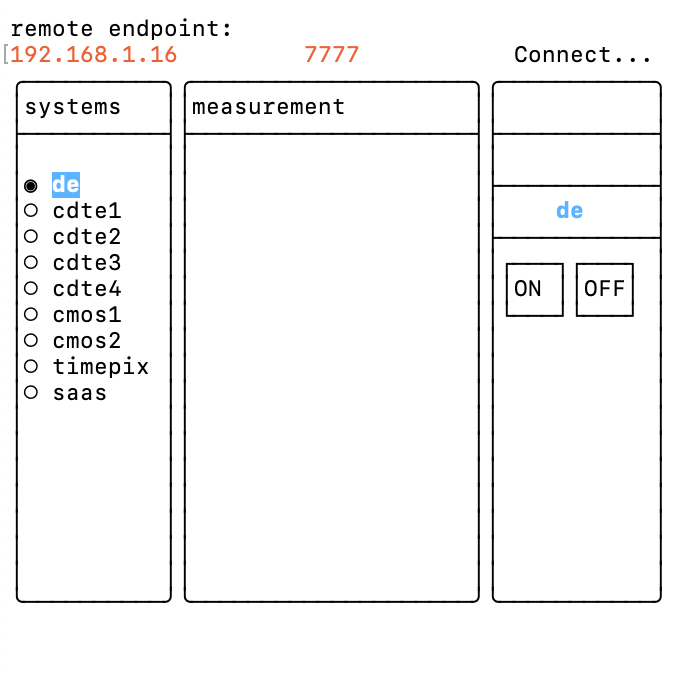
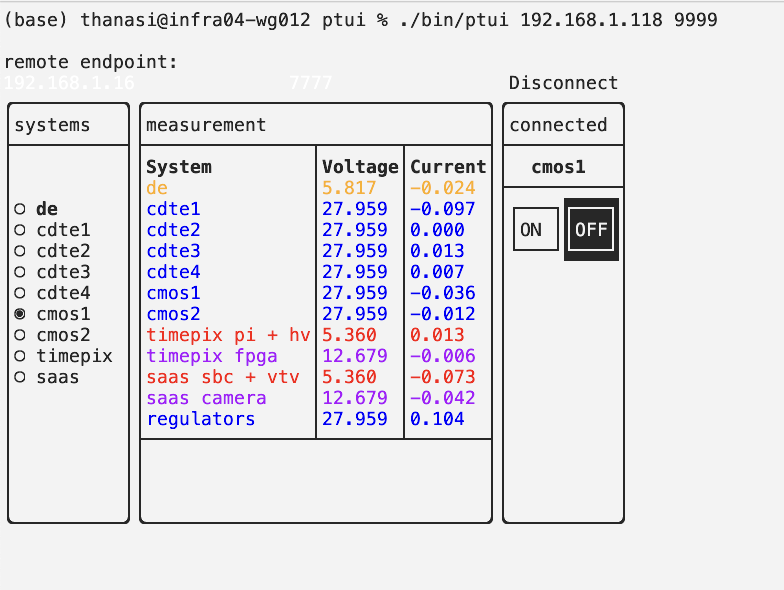
adding tests

Changed region(s): [[0.0, 0.0, 1.0, 0.9153]]

diff --git a/general-tools-cpp/hk/power/ptui/test/test.cpp b/general-tools-cpp/hk/power/ptui/test/test.cpp
@@ -1,9 +1,46 @@
-#include <boost/asio.hpp>
 #include "listen.h"
+#include <thread>
+#include    <unistd.h>
+#include <chrono>
+#include <iostream>
 
+int run_server() {
+    return system("./bin/debug-server 127.0.0.1 7777 &");
+} 
+
+int run_client() {
+    return system("./bin/debug-client 127.0.0.1 7776 127.0.0.1 7777 &");
+}
+
+
+/**
+ * @brief A simple wrapper to test HKADCNode communication.
+ * 
+ * Starts a server to send fake Housekeeping messages, and a client that asks for them and writes responses to log/.
+ */
 int main() {
+    int id = fork();
+    if (id < 0) {
+        exit(EXIT_FAILURE);
+    } else if (id == 0) {
+        int pid_s = run_server();
+        std::cout << "started server: " << id << "\n";
+        std::this_thread::sleep_for(std::chrono::seconds(5));
 
+        std::string prefix = "kill ";
+        system((prefix + std::to_string(id)).c_str());
+        
+        exit(EXIT_SUCCESS);
     
+    } else {
+        std::this_thread::sleep_for(std::chrono::seconds(1));
 
-    return 0;
+        // auto t2 = std::async(std::launch::async, run_client);
+        int pid_c = run_client();
+        std::cout << "started client: " << id << "\n";
+        std::this_thread::sleep_for(std::chrono::seconds(5));
+
+        exit(EXIT_SUCCESS);
+
+    }
 }

diff --git a/general-tools-cpp/hk/power/ptui/app/debug_client.cpp b/general-tools-cpp/hk/power/ptui/app/debug_client.cpp
@@ -12,7 +12,7 @@
 int main(int argc, char** argv) {
     std::cout << argc << "\n";
     if (argc != 5) {
-        std::cout << "use like this:\n\t> ./debug_server ip.address portnum \n";
+        std::cout << "use like this:\n\t> ./debug_server ip.address portnum remote.ip.address remoteportnum\n";
         return 1;
     }
 
@@ -21,9 +21,15 @@ int main(int argc, char** argv) {
     boost::asio::ip::tcp::endpoint local_endpoint(boost::asio::ip::make_address_v4(argv[1]), strtoul(argv[2], nullptr, 10));
     boost::asio::ip::tcp::endpoint remote_endpoint(boost::asio::ip::make_address_v4(argv[3]), strtoul(argv[4], nullptr, 10));
     HKADCNode node(local_endpoint, context);
+    
+    bool connected = node.setup_socket(remote_endpoint);
+    node.poll_started = connected;
 
-    node.setup_socket(remote_endpoint);
     context.run();
+    while(true) {
+        node.poll_adc();
+        std::this_thread::sleep_for(std::chrono::milliseconds(250));
+    }
 
     return 0;
 }

diff --git a/general-tools-cpp/hk/power/ptui/app/debug_server.cpp b/general-tools-cpp/hk/power/ptui/app/debug_server.cpp
@@ -16,7 +16,7 @@ const std::vector<uint8_t> adc_reply2 = {
 };
 
 /**
- * @brief A sample TCP server (like the Housekeeping board) for debugging use.
+ * @brief A sample TCP server (like the Housekeeping) for debugging use.
  */
 int main(int argc, char** argv) {
     if (argc != 3) {

diff --git a/general-tools-cpp/hk/power/ptui/README.md b/general-tools-cpp/hk/power/ptui/README.md
@@ -1,12 +1,12 @@
 # ptui
 
-A tiny power monitor for the FOXSI housekeeping board. You can use it to turn systems on/off, and watch current/voltage values. Samples power board at 10 Hz and logs to a CSV file.
+A tiny power monitor for the FOXSI housekeeping board. You can use it to turn systems on/off, and watch current/voltage values. Samples power board at 1 Hz and logs to a CSV file.
 
 ## Physical configuration
 
 ```mermaid
 flowchart LR
-HK board (192.168.1.16:7777) --> ptui (192.168.1.XXX:PPPPP)
+HK board (192.168.1.16:7777) <--> ptui (192.168.1.118:9999)
 ```
 
 ## Building
@@ -23,7 +23,7 @@ $ brew install cmake
 
 The other dependency, [`FTXUI`](https://github.com/ArthurSonzogni/FTXUI), will automatically be retrieved when you build.
 
-To build, do this:
+To build this software, do this:
 ```bash
 $ cd ptui
 $ mkdir build
@@ -32,13 +32,30 @@ $ cmake ..
 $ cmake --build .
 ```
 
+## Testing
+You can test your build by running the test application, 
+```bash
+$ ./bin/hkp_test
+```
+
+You should see a few lines print out before it exits after 5 seconds. After the program stops, check the folder `log/`. It should contain a raw data file (`raw_*`) and a CSV file (`parse_*`) with suffixes indicating the year-month-day_hour_minute_second_millisecond that you ran the test.
+
 ## Operation
+Before running, you will need a Housekeeping board with power, and an Ethernet connection to the machine running this software. Your network configuration should permit you to bind a local socket to an address in the 192.168.1.XXX subnetwork.
 Run it like this:
 ```bash
 $ ./bin/ptui ipaddress port
 ```
-providing your local IP address and port for the local connection. Once the UI launches, you can input the IP and port of the Housekeeping board. These are `192.168.1.16` and `7777`:
+providing your local IP address and port for your end of the connection. Once the UI launches, you can input the IP and port of the Housekeeping board. These are `192.168.1.16` and `7777`:
 
 ![image](assets/capture.png)
 
-Click the `Connect...` button to connect to the housekeeping board. After connecting, you can select a system on the left and turn it on or off on the right. Data is sampled at 10 Hz from the board, and displays in the center column. Data is also written to a time-tagged CSV file in `log/`.
+Click the `Connect...` button to connect to the housekeeping board. After connecting, you can select a system on the left and turn it on or off on the right. Data is sampled at 1 Hz from the board, and displays in the center column. Data is also written to a time-tagged CSV file in `log/`.
+
+If you just want to test it out, you can launch the debug server in another terminal like this:
+
+```bash
+$ ./bin/debug-server server_ip server_port
+```
+
+and connect to it using `ptui` to see some dummy data. After launching `ptui`, provide the `server_ip` and `server_port` you had input when launching the debug server.
